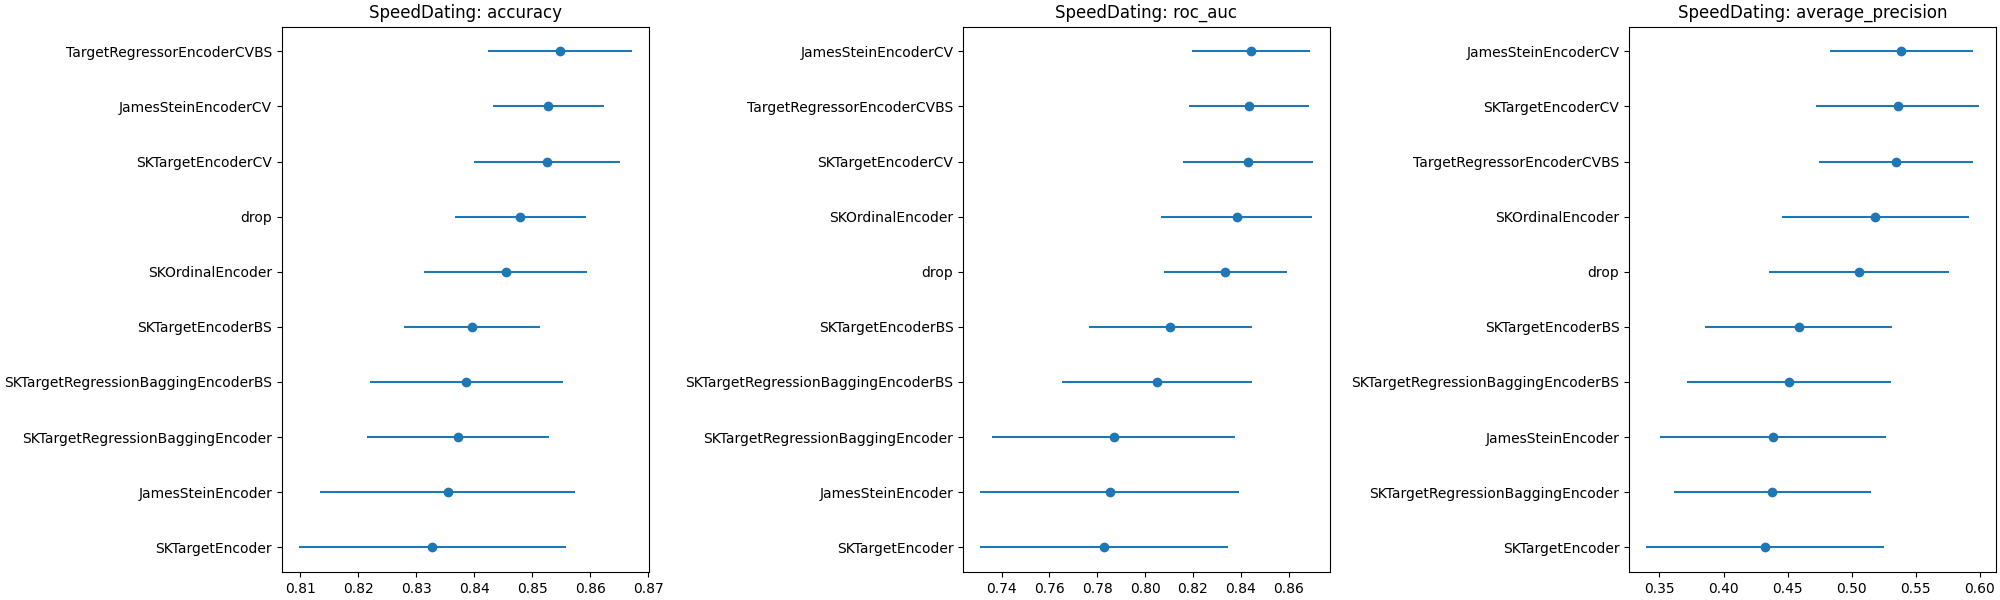
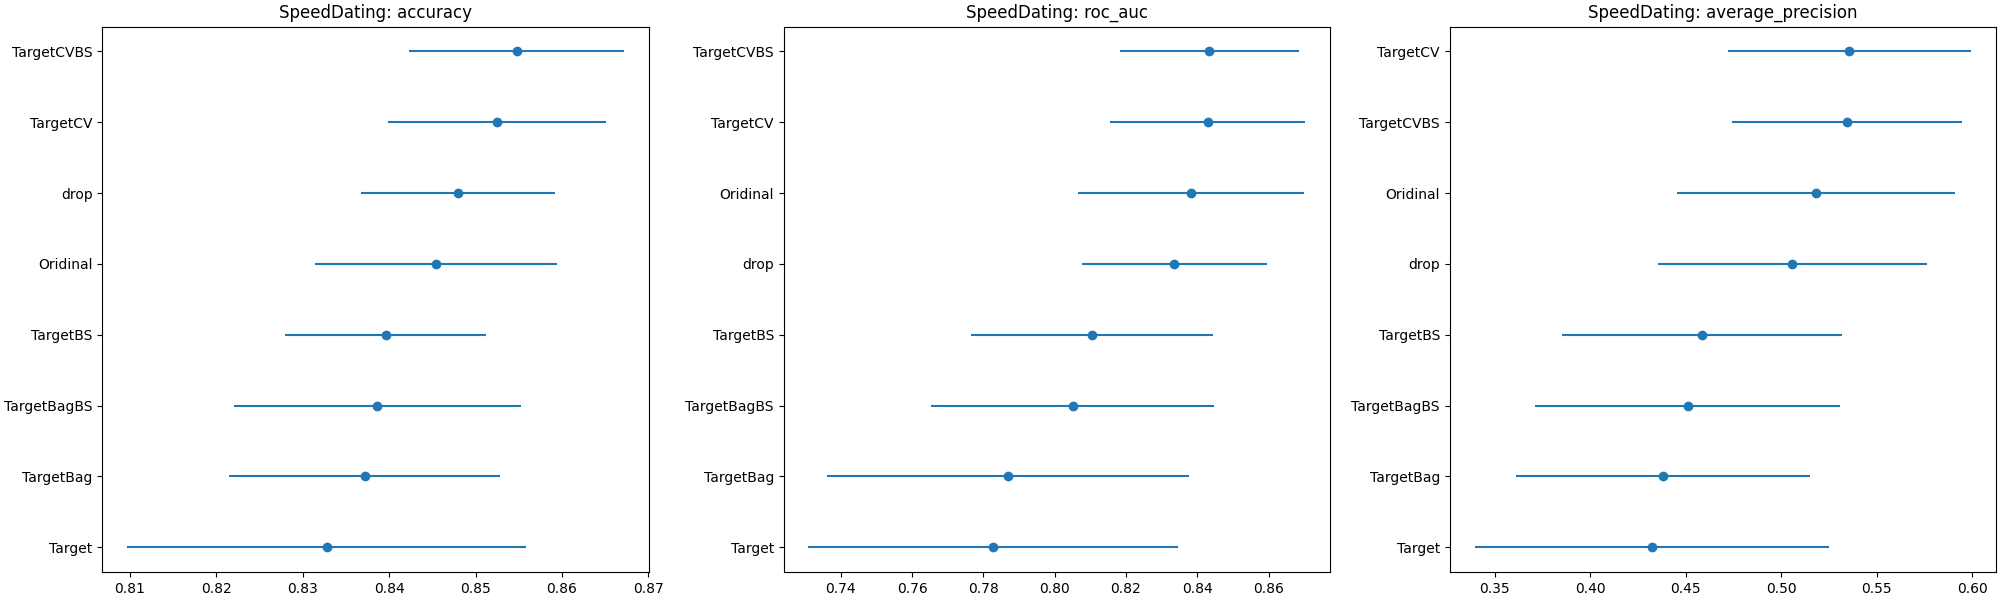
ENH Better formatting

diff --git a/generate_report.py b/generate_report.py
@@ -30,10 +30,34 @@ def plot_metric_for_name(
     if ax is None:
         fig = figure.Figure()
         ax = fig.subplots()
-    results_data_name = results_df[results_df["data_name"] == data_name]
+    results_data_name = results_df[results_df["data_name"] == data_name].copy()
 
     info_first = results_data_name.iloc[0]
     data_name = info_first["data_name"]
+
+    # rename long names
+    mapping = {
+        "drop": "drop",
+        "SKOrdinalEncoder": "Oridinal",
+        "SKTargetEncoder": "Target",
+        "SKTargetEncoderCV": "TargetCV",
+        "SKTargetEncoderBS": "TargetBS",
+        "TargetRegressorEncoderCVBS": "TargetCVBS",
+        "SKTargetRegressionBaggingEncoder": "TargetBag",
+        "SKTargetRegressionBaggingEncoderBS": "TargetBagBS",
+        "JamesSteinEncoder": "James",
+        "JamesSteinEncoderCV": "JamesCV",
+    }
+
+    def map_it(item):
+        return mapping.get(item, item)
+
+    results_data_name["encoder"] = results_data_name["encoder"].map(map_it)
+    # Remove James
+    results_data_name = results_data_name[
+        ~results_data_name["encoder"].str.startswith("James")
+    ]
+
     results_data_name_sorted = results_data_name.sort_values(f"test_{metric_name}_mean")
     null_encoders = ~results_data_name_sorted[f"test_{metric_name}_mean"].isna()
     if remove_drop:
